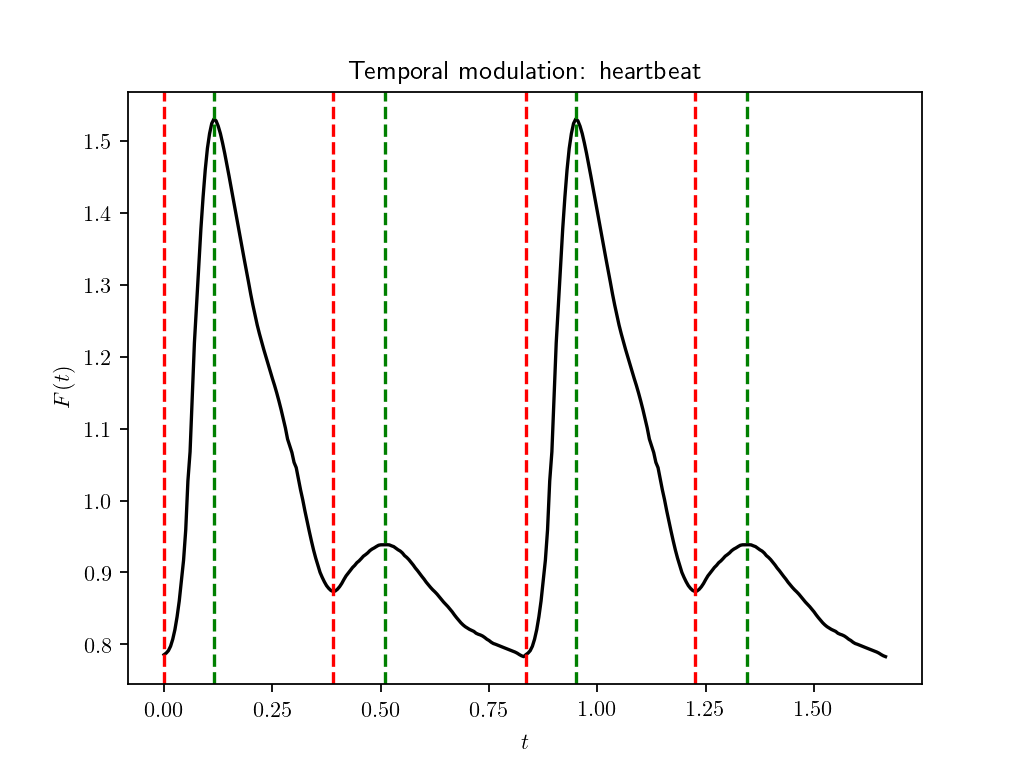
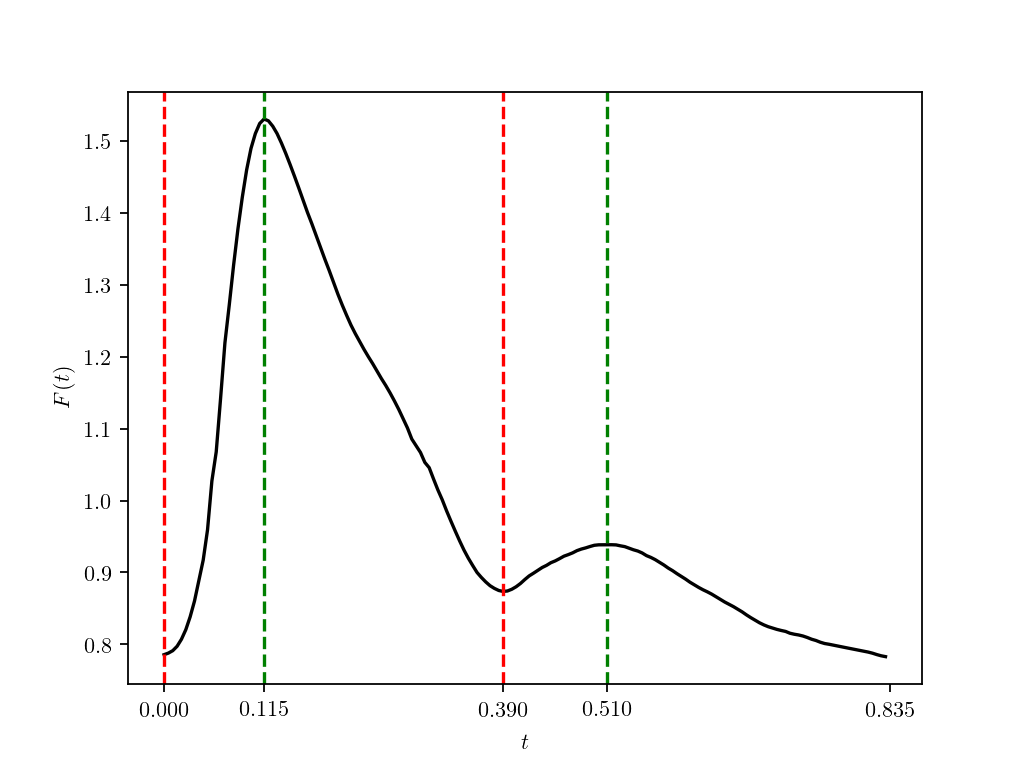
Generated input temporal modulation images.

diff --git a/Codes/Fluids/exact/testPlotTempMod.py b/Codes/Fluids/exact/testPlotTempMod.py
@@ -81,12 +81,14 @@ if __name__ == '__main__':
 	# TODO: CL input
 	dpi=160
 	extention="png"
-	if False:
+	#signal="heartbeat"
+	signal="sinus"
+	if signal=="heartbeat":
 		signal_T=0.835 # Baker 2017 heartbeat signal
 		signal_mins=[0, 0.39] # Baker 2017 heartbeat signal
 		signal_maxs=[0.115, 0.51] # Baker 2017 heartbeat signal
 		title_suffix = ": heartbeat"
-	else:
+	elif signal=="sinus":
 		signal_T=1
 		signal_mins=[0.75]
 		signal_maxs=[0.25]
@@ -103,8 +105,18 @@ if __name__ == '__main__':
 	plt.plot(t, y, 'k-')
 	plt.xlabel(r'$t$')
 	plt.ylabel(r'$F(t)$')
-	plt.title("Temporal modulation" + str(title_suffix))
+#	plt.title("Temporal modulation" + str(title_suffix))
 	add_xvline((t[0],t[-1]),signal_T,signal_mins,signal_maxs)
+	if signal=="heartbeat":
+		ticks=np.array([0.115, 0.39, 0.51, 0.835])
+		#ticks=np.append(ticks, tickets+0.835)
+		ticks=np.append([0], ticks)
+		plt.xticks(ticks)
+		ax = plt.gca()
+#		for tick in ax.xaxis.get_major_ticks():
+#			tick.label.set_fontsize(9)
+	elif signal=="sinus":
+		pass
 
 	# Output:
 	if opt.outputFN == None or opt.outputFN == "" or (os.path.exists(opt.outputFN) and (not opt.overwrite)):
